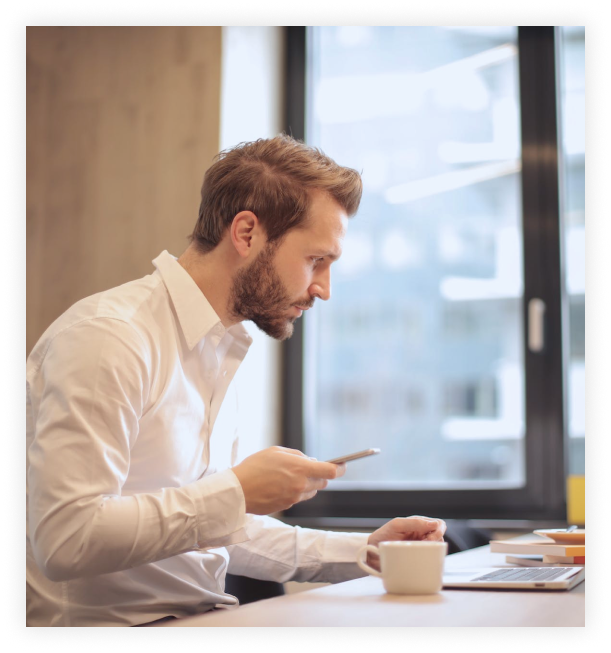
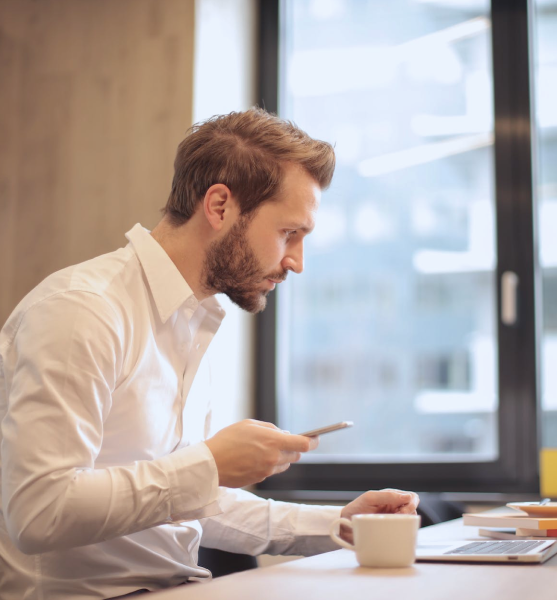
some extra changes

diff --git a/styles/responsive.css b/styles/responsive.css
@@ -3,6 +3,31 @@
     max-width: 95%;
   }
 }
+@media (max-width: 1100px) {
+  .oSImage {
+    display: none;
+  }
+
+  .section3 {
+    position: relative;
+    padding: 50px 10px;
+    margin-top: 30px;
+  }
+
+  .section3::before {
+    content: "";
+    position: absolute;
+    top: 0;
+    left: 0;
+    width: 100%;
+    height: 100%;
+    background-image: url(/images/OSImage.png);
+    background-repeat: no-repeat;
+    background-size: cover;
+    opacity: 0.3;
+    z-index: -1;
+  }
+}
 @media (max-width: 1000px) {
   main .content h1 {
     font-size: 50px;
@@ -14,27 +39,38 @@
     padding-left: 80px;
   }
 
-  .section1 > div:first-child {
-    width: 100%;
-    overflow: hidden;
-    padding: 40px 0;
-    position: relative;
+  .section1 {
+    margin-top: 20px;
   }
 
   .sec1UpDiv img {
+    display: none;
+  }
+
+  .sec1UpDiv {
+    padding: 30px 10px;
+    position: relative;
     width: 100%;
-    max-width: 100%;
+  }
+
+  .sec1UpDiv::before {
+    content: "";
     position: absolute;
-    z-index: -1;
-    opacity: 0.3;
+    top: 0;
+    left: 0;
+    width: 100%;
     height: 100%;
-    margin-bottom: 37px;
-    object-fit: cover;
+    background-image: url(/images/ClientImg.png);
+    background-repeat: no-repeat;
+    background-position: center center;
+    background-size: cover;
+    opacity: 0.3;
+    z-index: -1;
   }
 
   .sec1UpDiv > div {
     align-items: center;
-    padding: 10px 30px;
+    padding-right: 0;
   }
 
   .sec1UpDiv h2 {
@@ -53,22 +89,6 @@
     border-bottom: none;
   }
 
-  .sec1DownDiv > div:not(:last-child),
-  .sec1DownDiv > div {
-    padding-right: 5px;
-    border-right: none;
-  }
-
-  .oSImage {
-    position: absolute;
-    z-index: -1;
-    opacity: 0.3;
-    width: 100%;
-    height: 100%;
-    max-width: 100%;
-    object-fit: cover;
-  }
-
   .upFooterDiv {
     gap: 20px;
     flex-wrap: wrap;
@@ -81,6 +101,10 @@
 
   .downFooterDiv p {
     font-size: 14px;
+  }
+
+  .section4 {
+    margin-top: 30px;
   }
 }
 
@@ -267,7 +291,16 @@
 
   .sec1DownDiv {
     flex-wrap: wrap;
-    margin-top: 0;
+    margin-top: 20px;
+  }
+
+  .sec1DownDiv > div:not(:last-child),
+  .sec1DownDiv > div {
+    padding-right: 5px;
+  }
+
+  .sec1DownDiv > div:not(:last-child) {
+    border-right: none;
   }
 
   .downOne {
@@ -290,10 +323,6 @@
     max-width: 400px;
   }
 
-  .section3 {
-    padding: 0 10px;
-  }
-
   .section3 .whiteBtn {
     margin-bottom: 0;
   }
@@ -309,10 +338,6 @@
     line-height: 30px;
     max-width: 350px;
     margin-top: 10px;
-  }
-
-  .oSImage {
-    height: 70%;
   }
 
   .sec3LeftDiv {
@@ -392,15 +417,17 @@
   }
 }
 
-@media (max-width: 665px) {
-  .imgSlider img {
-    max-width: 314px;
+@media (max-width: 685px) {
+  .sec1DownDiv > div:not(:last-child) {
+    border-right: 1px solid transparent;
+    padding-bottom: 15px;
+    border-bottom: 1px solid rgba(144, 157, 226, 1);
   }
 }
 
-@media (max-width: 600px) {
-  .section1 {
-    margin-top: 0;
+@media (max-width: 665px) {
+  .imgSlider img {
+    max-width: 314px;
   }
 }
 
@@ -451,10 +478,6 @@
     padding: 2px;
   }
 
-  .section1 {
-    margin-top: 0;
-  }
-
   .sec1UpDiv h2 {
     font-size: 25px;
   }
@@ -465,10 +488,6 @@
 
   .btnsDiv {
     margin-top: 0;
-  }
-
-  .sec1UpDiv img {
-    margin-bottom: 0;
   }
 
   .btnsDiv button:last-child {
@@ -542,8 +561,8 @@
     padding: 0 3px;
   }
 
-  .section1 {
-    margin-top: 0;
+  .section3::before {
+    background-position: center;
   }
 }
 

diff --git a/styles/sections.css b/styles/sections.css
@@ -7,8 +7,9 @@
 }
 
 .sec1UpDiv img {
-  max-width: 560px;
-  width: 50%;
+  max-width: 55%;
+  box-shadow: 0px 0px 24px 2px #00000021;
+  margin-left: 20px;
 }
 
 .sec1UpDiv {
@@ -16,6 +17,7 @@
   justify-content: space-evenly;
   align-items: center;
   width: 100%;
+  gap: 25px;
 }
 
 .sec1UpDiv > div > button {
@@ -46,6 +48,7 @@
   justify-content: center;
   align-items: flex-start;
   gap: 19px;
+  padding-right: 5px;
 }
 
 .btnsDiv {
